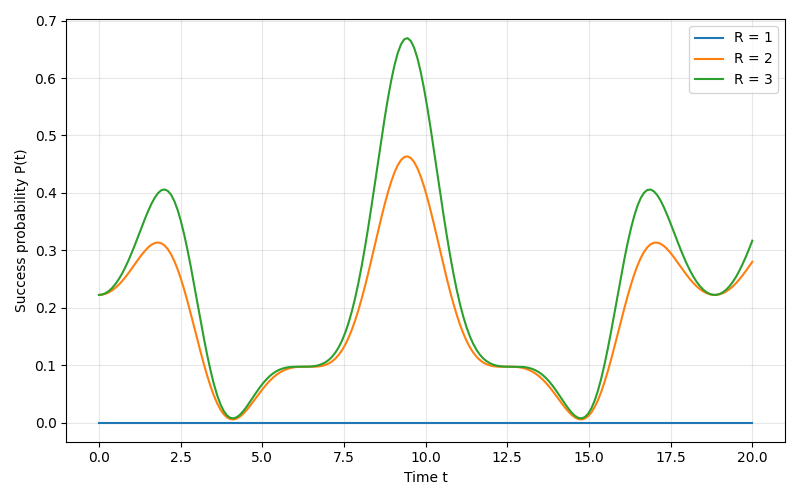
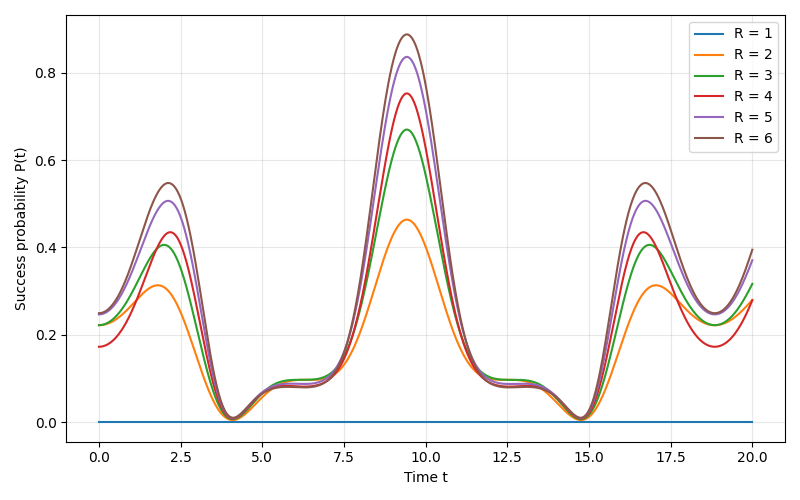
Fixed and completed time adjustment

diff --git a/src/fermionic_search.py b/src/fermionic_search.py
@@ -3,6 +3,7 @@ from qutip import *
 import time
 
 from simulation import Simulation
+from utils import number_of_extrema
 
 def fermionic_search(
     M, # Number of fermions
@@ -11,6 +12,7 @@ def fermionic_search(
     hopping_rate = None, # Hopping rate of the model (if None, set to critical hopping rate for complete graph)
     T = 200, # Total time for the simulation
     number_of_time_steps = 200, # Number of time steps in the simulation
+    simulation_time_adjustment = False, # Whether to adjust the simulation time, so that it contains around 20 extrema
 ):
     start_time = time.time()
     
@@ -33,6 +35,7 @@ def fermionic_search(
         'hopping rate' : hopping_rate,
         'T' : T,
         'number of time steps' : number_of_time_steps,
+        'simulation time adjustment' : simulation_time_adjustment,
         'simulation calculation time': None
     }
 
@@ -91,21 +94,66 @@ def fermionic_search(
     H += -creation_operator(marked_vertex, N) * annihilation_operator(marked_vertex, N)
 
     # --- Time evolution ---
-    times = np.linspace(0, T, number_of_time_steps)
+    if simulation_time_adjustment == False:
+        times = np.linspace(0, T, number_of_time_steps)
 
-    if output == 'states': # Only calculate states
-        result = sesolve(H, init_state, times)
-        states = result.states
-        occupations = None
-    elif output == 'occupations': # Only calculate occupations
-        number_operators = [number_operator(i, N) for i in range(N)]
-        result = sesolve(H, init_state, times, e_ops = number_operators)
-        states = None
-        occupations = result.expect
+        if output == 'states': # Only calculate states
+            result = sesolve(H, init_state, times)
+            states = result.states
+            occupations = None
+        elif output == 'occupations': # Only calculate occupations
+            number_operators = [number_operator(i, N) for i in range(N)]
+            result = sesolve(H, init_state, times, e_ops = number_operators)
+            states = None
+            occupations = result.expect
+        else:
+            raise ValueError("The 'output'-parameter must be either 'states' or 'occupations'.")
+
+        end_time = time.time()
+        params['simulation calculation time'] = end_time - start_time
+
+        return Simulation(states, occupations, times, graph, params)
     else:
-        raise ValueError("The 'output'-parameter must be either 'states' or 'occupations'.")
-    
-    end_time = time.time()
-    params['simulation calculation time'] = end_time - start_time
+        # Simulate the search for time T (only occupations, so that the peaks can be calculated)
+        times = np.linspace(0, T, number_of_time_steps)
+
+        number_operator_w = [number_operator(marked_vertex, N)]
+        result = sesolve(H, init_state, times, e_ops = number_operator_w)
+        occupations = result.expect
+        
+        # Determine the number of extrema in the search
+        extrema = number_of_extrema(occupations[0])
+        print(f'Number of starting extrema: {extrema}.')
+
+        # Adjust the simulation time T
+        while extrema < 10:
+            T = 2*T
+            params['T'] = T
+            times = np.linspace(0, T, number_of_time_steps)
+
+            result = sesolve(H, init_state, times, e_ops = number_operator_w)
+            occupations = result.expect
+
+            extrema = number_of_extrema(occupations[0])
+            print(f'Number of extrema: {extrema}.')
+
+        T = T / (extrema / 20)
+        params['T'] = T
+        times = np.linspace(0, T, number_of_time_steps)
+
+        if output == 'states': # Only calculate states
+            result = sesolve(H, init_state, times)
+            states = result.states
+            occupations = None
+        elif output == 'occupations': # Only calculate occupations
+            number_operators = [number_operator(i, N) for i in range(N)]
+            result = sesolve(H, init_state, times, e_ops = number_operators)
+            states = None
+            occupations = result.expect
+        else:
+            raise ValueError("The 'output'-parameter must be either 'states' or 'occupations'.")
+
+        end_time = time.time()
+        params['simulation calculation time'] = end_time - start_time
 
     return Simulation(states, occupations, times, graph, params)

diff --git a/src/bosonic_search.py b/src/bosonic_search.py
@@ -36,6 +36,7 @@ def bosonic_search(
         'hopping rate' : hopping_rate,
         'T' : T,
         'number of time steps' : number_of_time_steps,
+        'simulation time adjustment' : simulation_time_adjustment,
         'simulation calculation time': None
     }
 
@@ -121,6 +122,7 @@ def bosonic_search(
         
         # Determine the number of extrema in the search
         extrema = number_of_extrema(occupations[0])
+        print(f'Number of starting extrema: {extrema}.')
 
         # Adjust the simulation time T
         while extrema < 10:
@@ -132,6 +134,7 @@ def bosonic_search(
             occupations = result.expect
 
             extrema = number_of_extrema(occupations[0])
+            print(f'Number of extrema: {extrema}.')
 
         T = T / (extrema / 20)
         params['T'] = T
@@ -149,8 +152,8 @@ def bosonic_search(
         else:
             raise ValueError("The 'output'-parameter must be either 'states' or 'occupations'.")
 
-        end_time = time.time()
-        params['simulation calculation time'] = end_time - start_time
+            end_time = time.time()
+            params['simulation calculation time'] = end_time - start_time
 
         return Simulation(states, occupations, times, graph, params)
         

diff --git a/src/main.py b/src/main.py
@@ -20,9 +20,11 @@ simulation = fermionic_search(
     M=2,
     graph=graph,
     output='states',
-    T=0.001,
+    T=50,
+    number_of_time_steps = 200,
+    simulation_time_adjustment=False
 )
-simulation.determine_lowest_running_times(thresholds=[0.2, 0.4, 0.6, 0.8])
+simulation.determine_lowest_running_times(thresholds=[0.2, 0.4])
 print("Lowest running times:", simulation.lowest_running_times)
 print("Rounds of lowest running times:", simulation.rounds_of_lowest_running_times)
 print("Simulation time: ", simulation.simulation_calculation_time)
